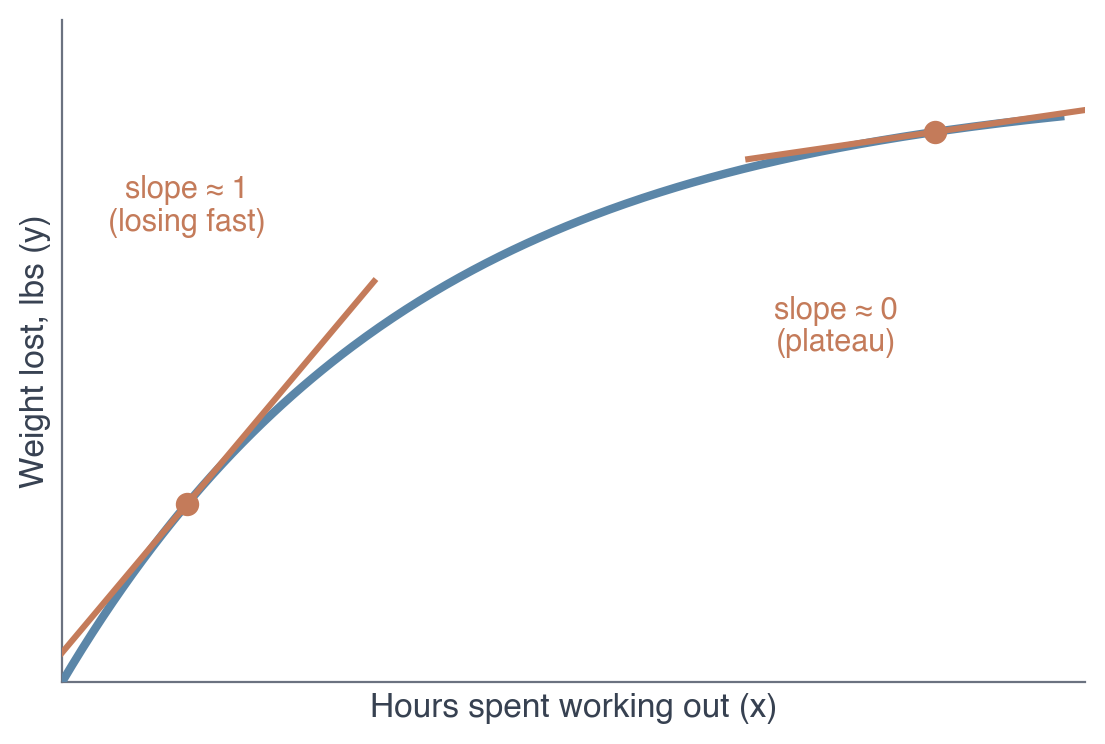
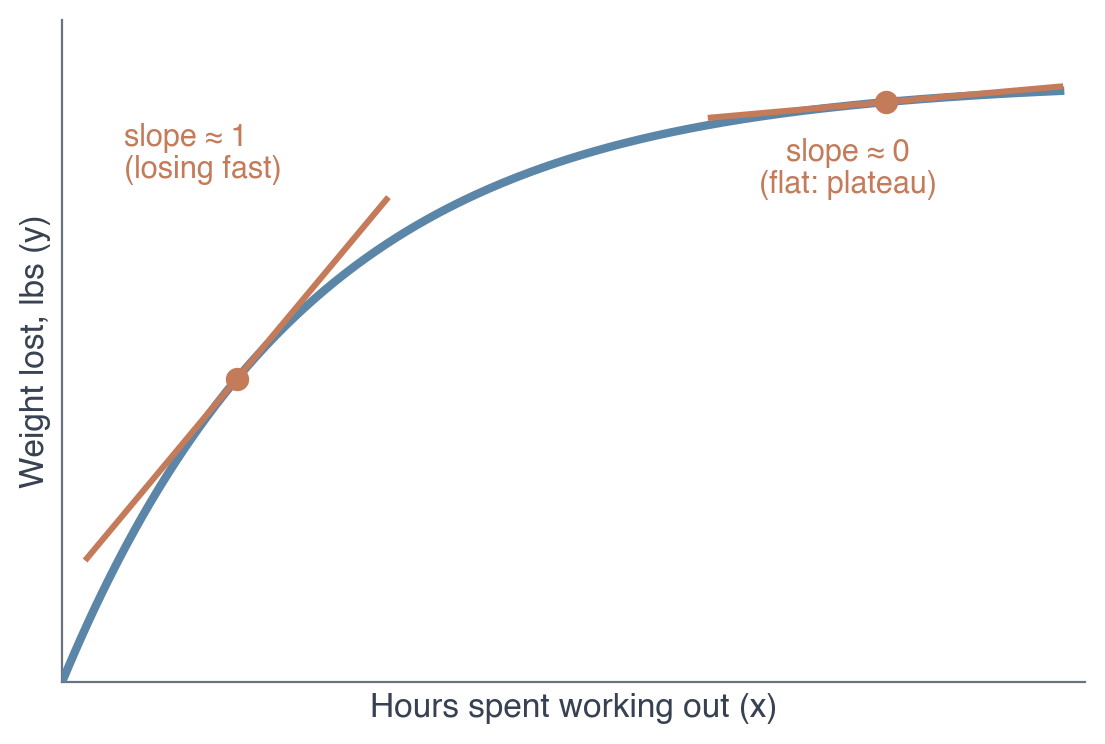
Ch 1 deck: derivative-intro figure - make the late tangent genuinely flat (slope ~ 0 plateau)

diff --git a/econ2316/ch01-adventures-in-microeconomics/figures/render_derivative_intro.py b/econ2316/ch01-adventures-in-microeconomics/figures/render_derivative_intro.py
@@ -17,22 +17,22 @@ plt.rcParams.update({
     "axes.grid": False, "axes.spines.top": False, "axes.spines.right": False,
 })
 
-def f(x):  return 4 * (1 - np.exp(-0.35 * x))
-def fp(x): return 1.4 * np.exp(-0.35 * x)
+def f(x):  return 4 * (1 - np.exp(-0.5 * x))
+def fp(x): return 2.0 * np.exp(-0.5 * x)
 
 x = np.linspace(0, 8, 300)
 fig, ax = plt.subplots(figsize=(6.6, 4.3))
 ax.plot(x, f(x), color=C["curve"], lw=3.0, zorder=3)
 
-def tangent(x0, half, label, lx, ly):
+def tangent(x0, half, label, lx, ly, ha="center"):
     m, y0 = fp(x0), f(x0)
     xs = np.array([x0 - half, x0 + half])
     ax.plot(xs, y0 + m * (xs - x0), color=C["tan"], lw=2.2, zorder=4)
     ax.scatter([x0], [y0], s=55, color=C["tan"], zorder=6)
-    ax.text(lx, ly, label, color=C["tan"], fontsize=11, fontweight="bold", ha="center", linespacing=1.1)
+    ax.text(lx, ly, label, color=C["tan"], fontsize=11, fontweight="bold", ha=ha, linespacing=1.1)
 
-tangent(1.0, 1.5, "slope ≈ 1\n(losing fast)", 1.0, 3.0)
-tangent(7.0, 1.5, "slope ≈ 0\n(plateau)", 6.2, 2.2)
+tangent(1.4, 1.2, "slope ≈ 1\n(losing fast)", 0.5, 3.35, ha="left")
+tangent(6.6, 1.4, "slope ≈ 0\n(flat: plateau)", 6.3, 3.25, ha="center")
 
 ax.set_xlim(0, 8.2)
 ax.set_ylim(0, 4.4)
